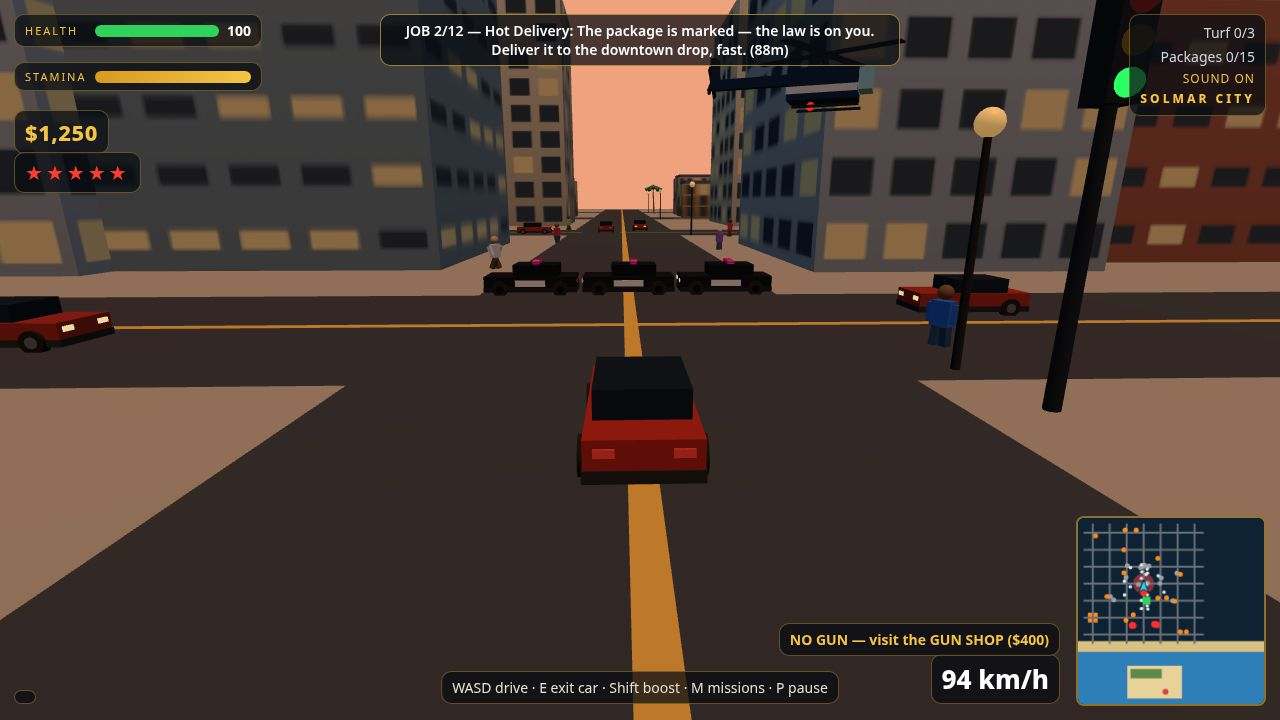
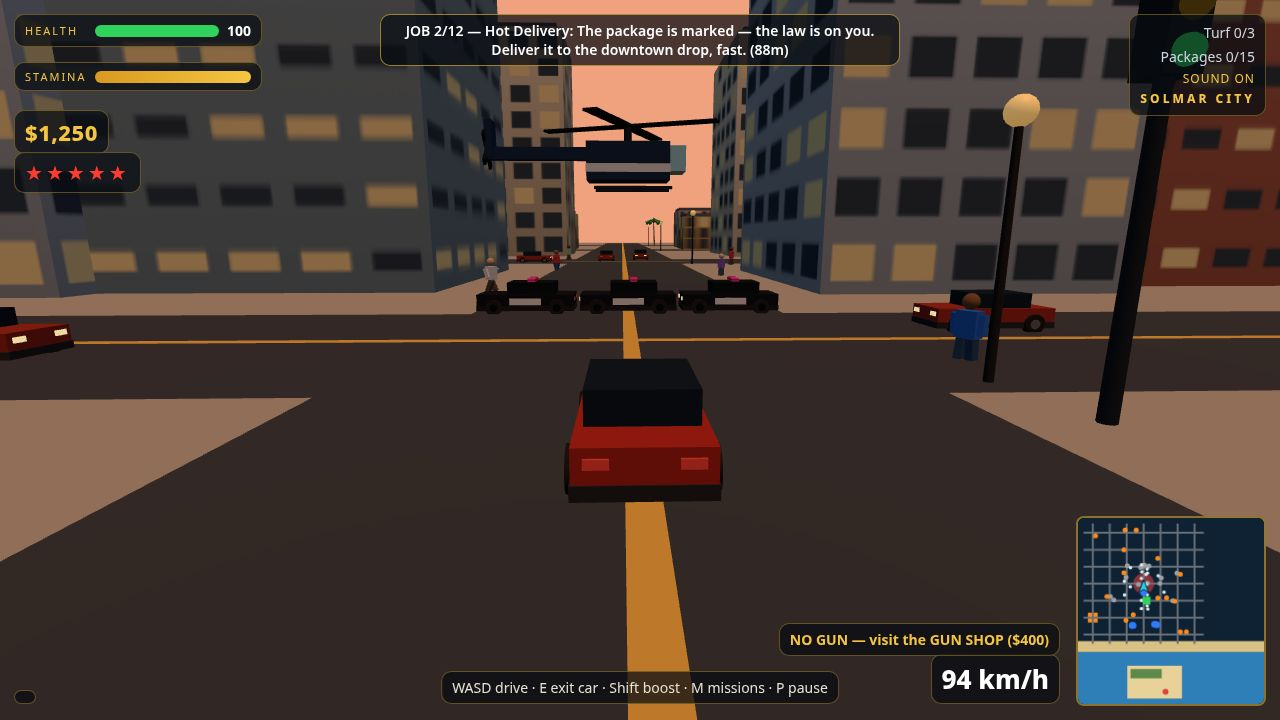
Phase 10b: polish - cover heli framing, mission police readability + muzzle flash, police steering fix (recording M)

diff --git a/game/src/weapons.js b/game/src/weapons.js
@@ -116,6 +116,36 @@ export function createWeapons(scene) {
   flash.visible = false;
   scene.add(flash);
 
+  // Muzzle-flash starburst: a camera-facing sprite with a soft radial
+  // gradient (white core, gold halo), so the flash reads as a bright
+  // burst from any angle instead of a thin spinning plane seen edge-on.
+  const flashCanvas = document.createElement('canvas');
+  flashCanvas.width = 128;
+  flashCanvas.height = 128;
+  const fc = flashCanvas.getContext('2d');
+  const grad = fc.createRadialGradient(64, 64, 2, 64, 64, 64);
+  grad.addColorStop(0, 'rgba(255,255,240,1)');
+  grad.addColorStop(0.25, 'rgba(255,210,63,0.95)');
+  grad.addColorStop(0.6, 'rgba(255,120,40,0.4)');
+  grad.addColorStop(1, 'rgba(255,120,40,0)');
+  fc.fillStyle = grad;
+  fc.fillRect(0, 0, 128, 128);
+  const flashSprite = new THREE.Sprite(new THREE.SpriteMaterial({
+    map: new THREE.CanvasTexture(flashCanvas), transparent: true, depthWrite: false,
+  }));
+  flashSprite.scale.setScalar(2.4);
+  flashSprite.visible = false;
+  scene.add(flashSprite);
+
+  // Thick tracer beam: a bright cylinder along the shot ray, so the
+  // shot reads as a beam instead of a 1 px line (WebGL line width is
+  // always 1 px, however thick the shot should look). Capped at 14 m:
+  // a miss would otherwise draw a 46 m rod across the whole plaza.
+  const tracerBeamMat = new THREE.MeshBasicMaterial({ color: 0xffe9a8 });
+  const tracerBeam = new THREE.Mesh(new THREE.CylinderGeometry(0.16, 0.16, 1, 8, 1, true), tracerBeamMat);
+  tracerBeam.visible = false;
+  scene.add(tracerBeam);
+
   scene.add(shop);
 
   const weapons = {
@@ -129,6 +159,7 @@ export function createWeapons(scene) {
     tracerTimer: 0,
     spinTimer: 0,
     lastShotPos: null,
+    lastShotEnd: null,
     shotsFired: 0,
     shopPos: SHOP_POS,
     nearShop,
@@ -209,6 +240,16 @@ export function createWeapons(scene) {
     flashMat.opacity = 1;
     weapons.flashTimer = 0.06;
     weapons.lastShotPos = muzzle.clone();
+    weapons.lastShotEnd = new THREE.Vector3(endX, endY, endZ);
+    // Thick beam along the ray, capped at 14 m so a full-range miss
+    // does not draw a rod across the whole plaza.
+    const dir = new THREE.Vector3(endX - muzzle.x, endY - muzzle.y, endZ - muzzle.z);
+    const len = Math.min(dir.length() || 1, 14);
+    dir.normalize();
+    tracerBeam.position.set(muzzle.x + dir.x * len / 2, muzzle.y + dir.y * len / 2, muzzle.z + dir.z * len / 2);
+    tracerBeam.quaternion.setFromUnitVectors(new THREE.Vector3(0, 1, 0), dir);
+    tracerBeam.scale.set(1, len, 1);
+    tracerBeam.visible = true;
   }
 
   function knockPedDown(ped) {
@@ -306,15 +347,28 @@ export function createWeapons(scene) {
   // No-ops until at least one real shot has been fired.
   function stageFlash() {
     if (!weapons.lastShotPos) return;
-    flash.position.copy(weapons.lastShotPos);
-    // A little larger than stock: at screenshot distance the 1.1 m
-    // flash is a sliver, but 2x reads as a yellow box over Mara.
-    flash.scale.setScalar(1.3);
-    flash.visible = true;
-    flashMat.opacity = 1;
+    // Hide the hard-edged spinning plane for the screenshot pose: at
+    // capture its rotation phase is luck, and it reads as a yellow
+    // diamond/triangle over Mara. The soft camera-facing sprite below
+    // carries the flash instead, deterministically.
+    flash.visible = false;
     weapons.flashTimer = 0.12;
     tracerMat.opacity = 0.9;
     weapons.tracerTimer = 0.12;
+    // Starburst sprite + thick beam, re-lit from the last real shot.
+    flashSprite.position.copy(weapons.lastShotPos);
+    flashSprite.visible = true;
+    if (weapons.lastShotEnd) {
+      const m = weapons.lastShotPos;
+      const e = weapons.lastShotEnd;
+      const dir = new THREE.Vector3(e.x - m.x, e.y - m.y, e.z - m.z);
+      const len = Math.min(dir.length() || 1, 14);
+      dir.normalize();
+      tracerBeam.position.set(m.x + dir.x * len / 2, m.y + dir.y * len / 2, m.z + dir.z * len / 2);
+      tracerBeam.quaternion.setFromUnitVectors(new THREE.Vector3(0, 1, 0), dir);
+      tracerBeam.scale.set(1, len, 1);
+      tracerBeam.visible = true;
+    }
   }
 
   function update(dt) {
@@ -334,13 +388,13 @@ export function createWeapons(scene) {
     }
     if (weapons.tracerTimer > 0) {
       weapons.tracerTimer -= dt;
-      if (weapons.tracerTimer <= 0) tracerMat.opacity = 0;
+      if (weapons.tracerTimer <= 0) { tracerMat.opacity = 0; tracerBeam.visible = false; }
     }
     if (weapons.flashTimer > 0) {
       weapons.flashTimer -= dt;
       flashMat.opacity = Math.max(0, weapons.flashTimer / 0.06);
       flash.rotation.z += dt * 20;
-      if (weapons.flashTimer <= 0) flash.visible = false;
+      if (weapons.flashTimer <= 0) { flash.visible = false; flashSprite.visible = false; }
     }
   }
 

diff --git a/game/src/shots.js b/game/src/shots.js
@@ -118,11 +118,13 @@ function stageDrive(ctx) {
   callIf(ctx.daynight, 'setHour', 17);
   callIf(ctx.missions, 'start', 1);
   stageDrivenCar(ctx, 0, 62, Math.PI, 16);
-  // Helicopter pinned above the avenue itself: the street canyon is
-  // the one sightline no tower can block. Offset right so it clears
-  // the centred objective bar, low enough to sit inside the chase
-  // camera's view instead of above it.
-  stageFiveStar(ctx, [10, 10, -30]);
+  // Helicopter pinned dead-centre above the avenue itself, low in the
+  // sky gap between the towers: the street canyon is the one sightline
+  // no tower can block, and dead-centre keeps it clear of the traffic
+  // light gantry on the right and the objective bar across the top.
+  // Low enough (y 6.5) to sit well inside the chase camera's view
+  // instead of hiding behind the HUD, big enough to read at a glance.
+  stageFiveStar(ctx, [0, 6.5, -25]);
   // All five pursuit cars placed by hand, far behind Mara: the two
   // units trimFleet would otherwise spawn at random road points can
   // land ahead of her and ram her head-on inside the 2-second run.
@@ -237,8 +239,10 @@ function stageMission(ctx) {
   // Three Crows members (gangs.members[6..8]) planted 12-16 m from
   // Mara: the gang update makes them charge her on sight, so at the
   // capture they are mid-charge, a few metres out, arms swinging.
+  // The northern one sits a touch south so the tightened camera keeps
+  // it inside the left edge of the frame.
   const members = (ctx.gangs && ctx.gangs.members) || [];
-  const spots = [[146, 150], [150, 136], [141, 154]];
+  const spots = [[146, 150], [147, 142], [141, 154]];
   for (let k = 0; k < 3; k++) {
     const member = members[6 + k];
     if (!member || !member.group) continue;
@@ -246,15 +250,24 @@ function stageMission(ctx) {
     member.fled = false;
     placeAt(member.group, spots[k][0], 0, spots[k][1]);
   }
-  // Two patrol cars converging from the street south of the casino,
-  // on the camera's view axis: cars placed north end up behind the
-  // fixed camera, and cars that close from the south-east end up
-  // camouflaged against the casino's dark wall. From the south they
-  // finish on the light plaza, readable against the road. They start
-  // ~46 m out, so the bust timer cannot complete before the capture.
+  // Two patrol cars converging from the open light plaza SOUTH of
+  // Mara, on approach bearings that keep them off the casino's dark
+  // wall AND off the building blocks: the law drives straight at
+  // Mara, so any approach that crosses a neighbouring block gets
+  // deflected by the building colliders and ends up flung south out
+  // of frame (what the first try did). Both units therefore start on
+  // open ground — one up the street west of the casino block, one up
+  // from the beach road — and close across the pink plaza, ending
+  // south-west and south of Mara with light ground behind them. The
+  // second unit starts further out (~61 m vs ~47 m) so at the
+  // capture it is still ~12 m out while the first is ~5 m out: the
+  // two do not stack on one azimuth behind each other (what the
+  // second try did), they read as two separate black cars with light
+  // bars at clearly different depths. Both start far enough out that
+  // the bust timer cannot complete before the capture.
   callIf(ctx.police, 'setWanted', 2);
-  callIf(ctx.police, 'place', 0, 140, 186, -2.9);
-  callIf(ctx.police, 'place', 1, 165, 175, -2.4);
+  callIf(ctx.police, 'place', 0, 124, 186, 2.92);
+  callIf(ctx.police, 'place', 1, 120, 200, 2.94);
   // Six cars on the streets boxing the scene in.
   stageTraffic(ctx.traffic, [
     [0, 124, 160, 'ns', -1, 9],
@@ -273,10 +286,13 @@ function stageMission(ctx) {
   ]);
   // Fixed camera close in north-west of Mara, looking south-east past
   // her and the charging gang members toward the casino facade at
-  // (155, 155). At ~13 m Mara reads clearly instead of vanishing
-  // among the pedestrians, and the lit CASINO sign is in frame behind
-  // her.
-  ctx.setCamera(122, 2.5, 130, 138, 1.8, 146);
+  // (155, 155). At ~10 m Mara reads clearly instead of vanishing
+  // among the pedestrians, both lit CASINO signs stay in frame, and
+  // the view is rotated a touch south so the patrol cars closing from
+  // the south-west plaza land inside the right of the frame instead
+  // of piling up against the casino's dark wall. Less empty plaza
+  // foreground, less empty sky.
+  ctx.setCamera(126, 2.3, 132, 135, 1.7, 146);
   ctx.setState('playing');
 }
 

diff --git a/game/src/main.js b/game/src/main.js
@@ -587,10 +587,18 @@ function updateCamera(dt) {
   // beside her instead. The drive pose uses this same chase camera and is
   // good, so the offset must never apply there.
   const chaseShotX = (isShot && shotName === 'chase') ? 6 : 0;
+  // Drive screenshot pose only: pull the chase camera a little closer
+  // and lower (dist 9 -> 7.5, pitch 0.32 -> 0.26) so the empty
+  // foreground asphalt shrinks, Mara's car fills more of the frame and
+  // more sky shows above the road. Every other pose keeps the stock
+  // chase camera.
+  const driveShot = isShot && shotName === 'drive';
+  const effDist = driveShot ? 7.5 : state.cameraDist;
+  const effPitch = driveShot ? 0.26 : state.cameraPitch;
   camTarget.set(
-    focus.x + Math.sin(state.cameraYaw) * Math.cos(state.cameraPitch) * state.cameraDist + chaseShotX,
-    focus.y + eyeHeight + Math.sin(state.cameraPitch) * state.cameraDist,
-    focus.z + Math.cos(state.cameraYaw) * Math.cos(state.cameraPitch) * state.cameraDist,
+    focus.x + Math.sin(state.cameraYaw) * Math.cos(effPitch) * effDist + chaseShotX,
+    focus.y + eyeHeight + Math.sin(effPitch) * effDist,
+    focus.z + Math.cos(state.cameraYaw) * Math.cos(effPitch) * effDist,
   );
   camera.position.lerp(camTarget, 1 - Math.exp(-10 * dt));
   camera.lookAt(focus.x, focus.y + eyeHeight, focus.z);

diff --git a/game/src/police.js b/game/src/police.js
@@ -309,8 +309,13 @@ export function createPolice(scene, seed) {
       const dist = Math.hypot(dx, dz);
 
       // Steer toward the target with a capped turn rate.
+      // angleDiff(a, b) is the turn FROM a TO b, so the turn the car
+      // needs is angleDiff(heading, wantHeading): the old order
+      // (wantHeading, heading) turned the car AWAY from Mara, and the
+      // cars ended up driving off to the south-east stuck in a limit
+      // cycle at the +/-PI wrap instead of converging on her.
       const wantHeading = Math.atan2(dx, dz);
-      const turn = clamp(angleDiff(wantHeading, unit.car.heading || 0), -turnRate * dt, turnRate * dt);
+      const turn = clamp(angleDiff(unit.car.heading || 0, wantHeading), -turnRate * dt, turnRate * dt);
       unit.car.heading = (unit.car.heading || 0) + turn;
 
       // Speed profile: flat out from afar, creep when close — unless
